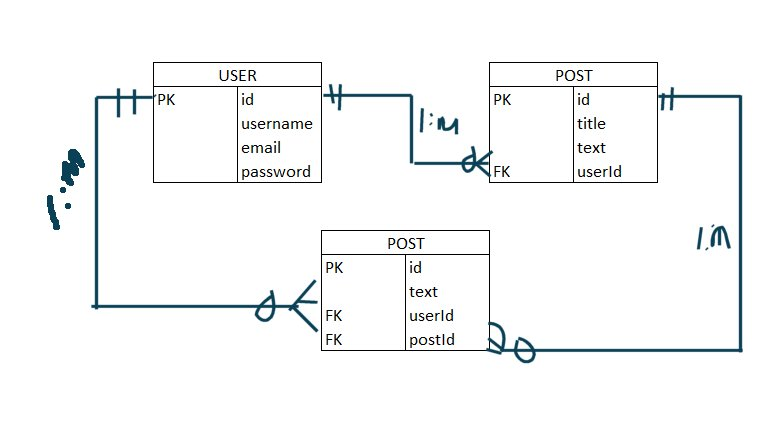
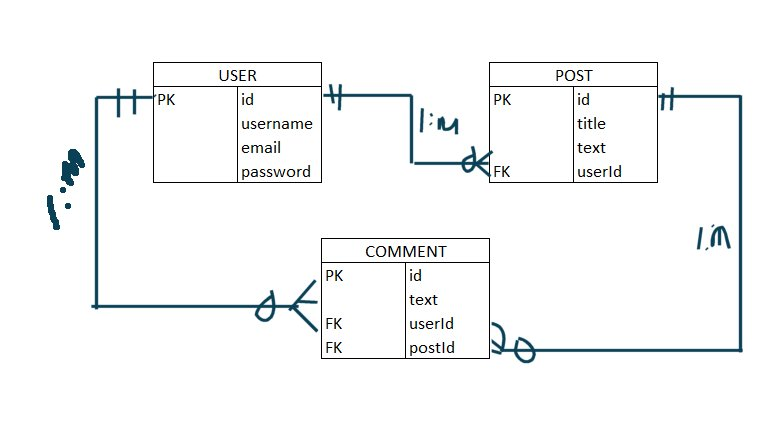
update comment.js model

diff --git a/models/Comment.js b/models/Comment.js
@@ -3,6 +3,38 @@ const connection = require("../config/connection");
 
 class Comment extends Model {}
 
-Comment.init();
+Comment.init(
+  {
+    id: {
+      type: DataTypes.INTEGER,
+      allowNull: false,
+      primaryKey: true,
+      autoIncrement: true,
+    },
+    text: {
+      type: DataTypes.TEXT,
+      allowNull: false,
+    },
+    userId: {
+      type: DataTypes.INTEGER,
+      references: {
+        model: "user",
+        key: "id",
+      },
+    },
+    postId: {
+      type: DataTypes.INTEGER,
+      references: {
+        model: "post",
+        key: "id",
+      },
+    },
+  },
+  {
+    sequelize: connection,
+    freezeTableName: true,
+    modelName: "comment",
+  }
+);
 
 module.exports = Comment;
